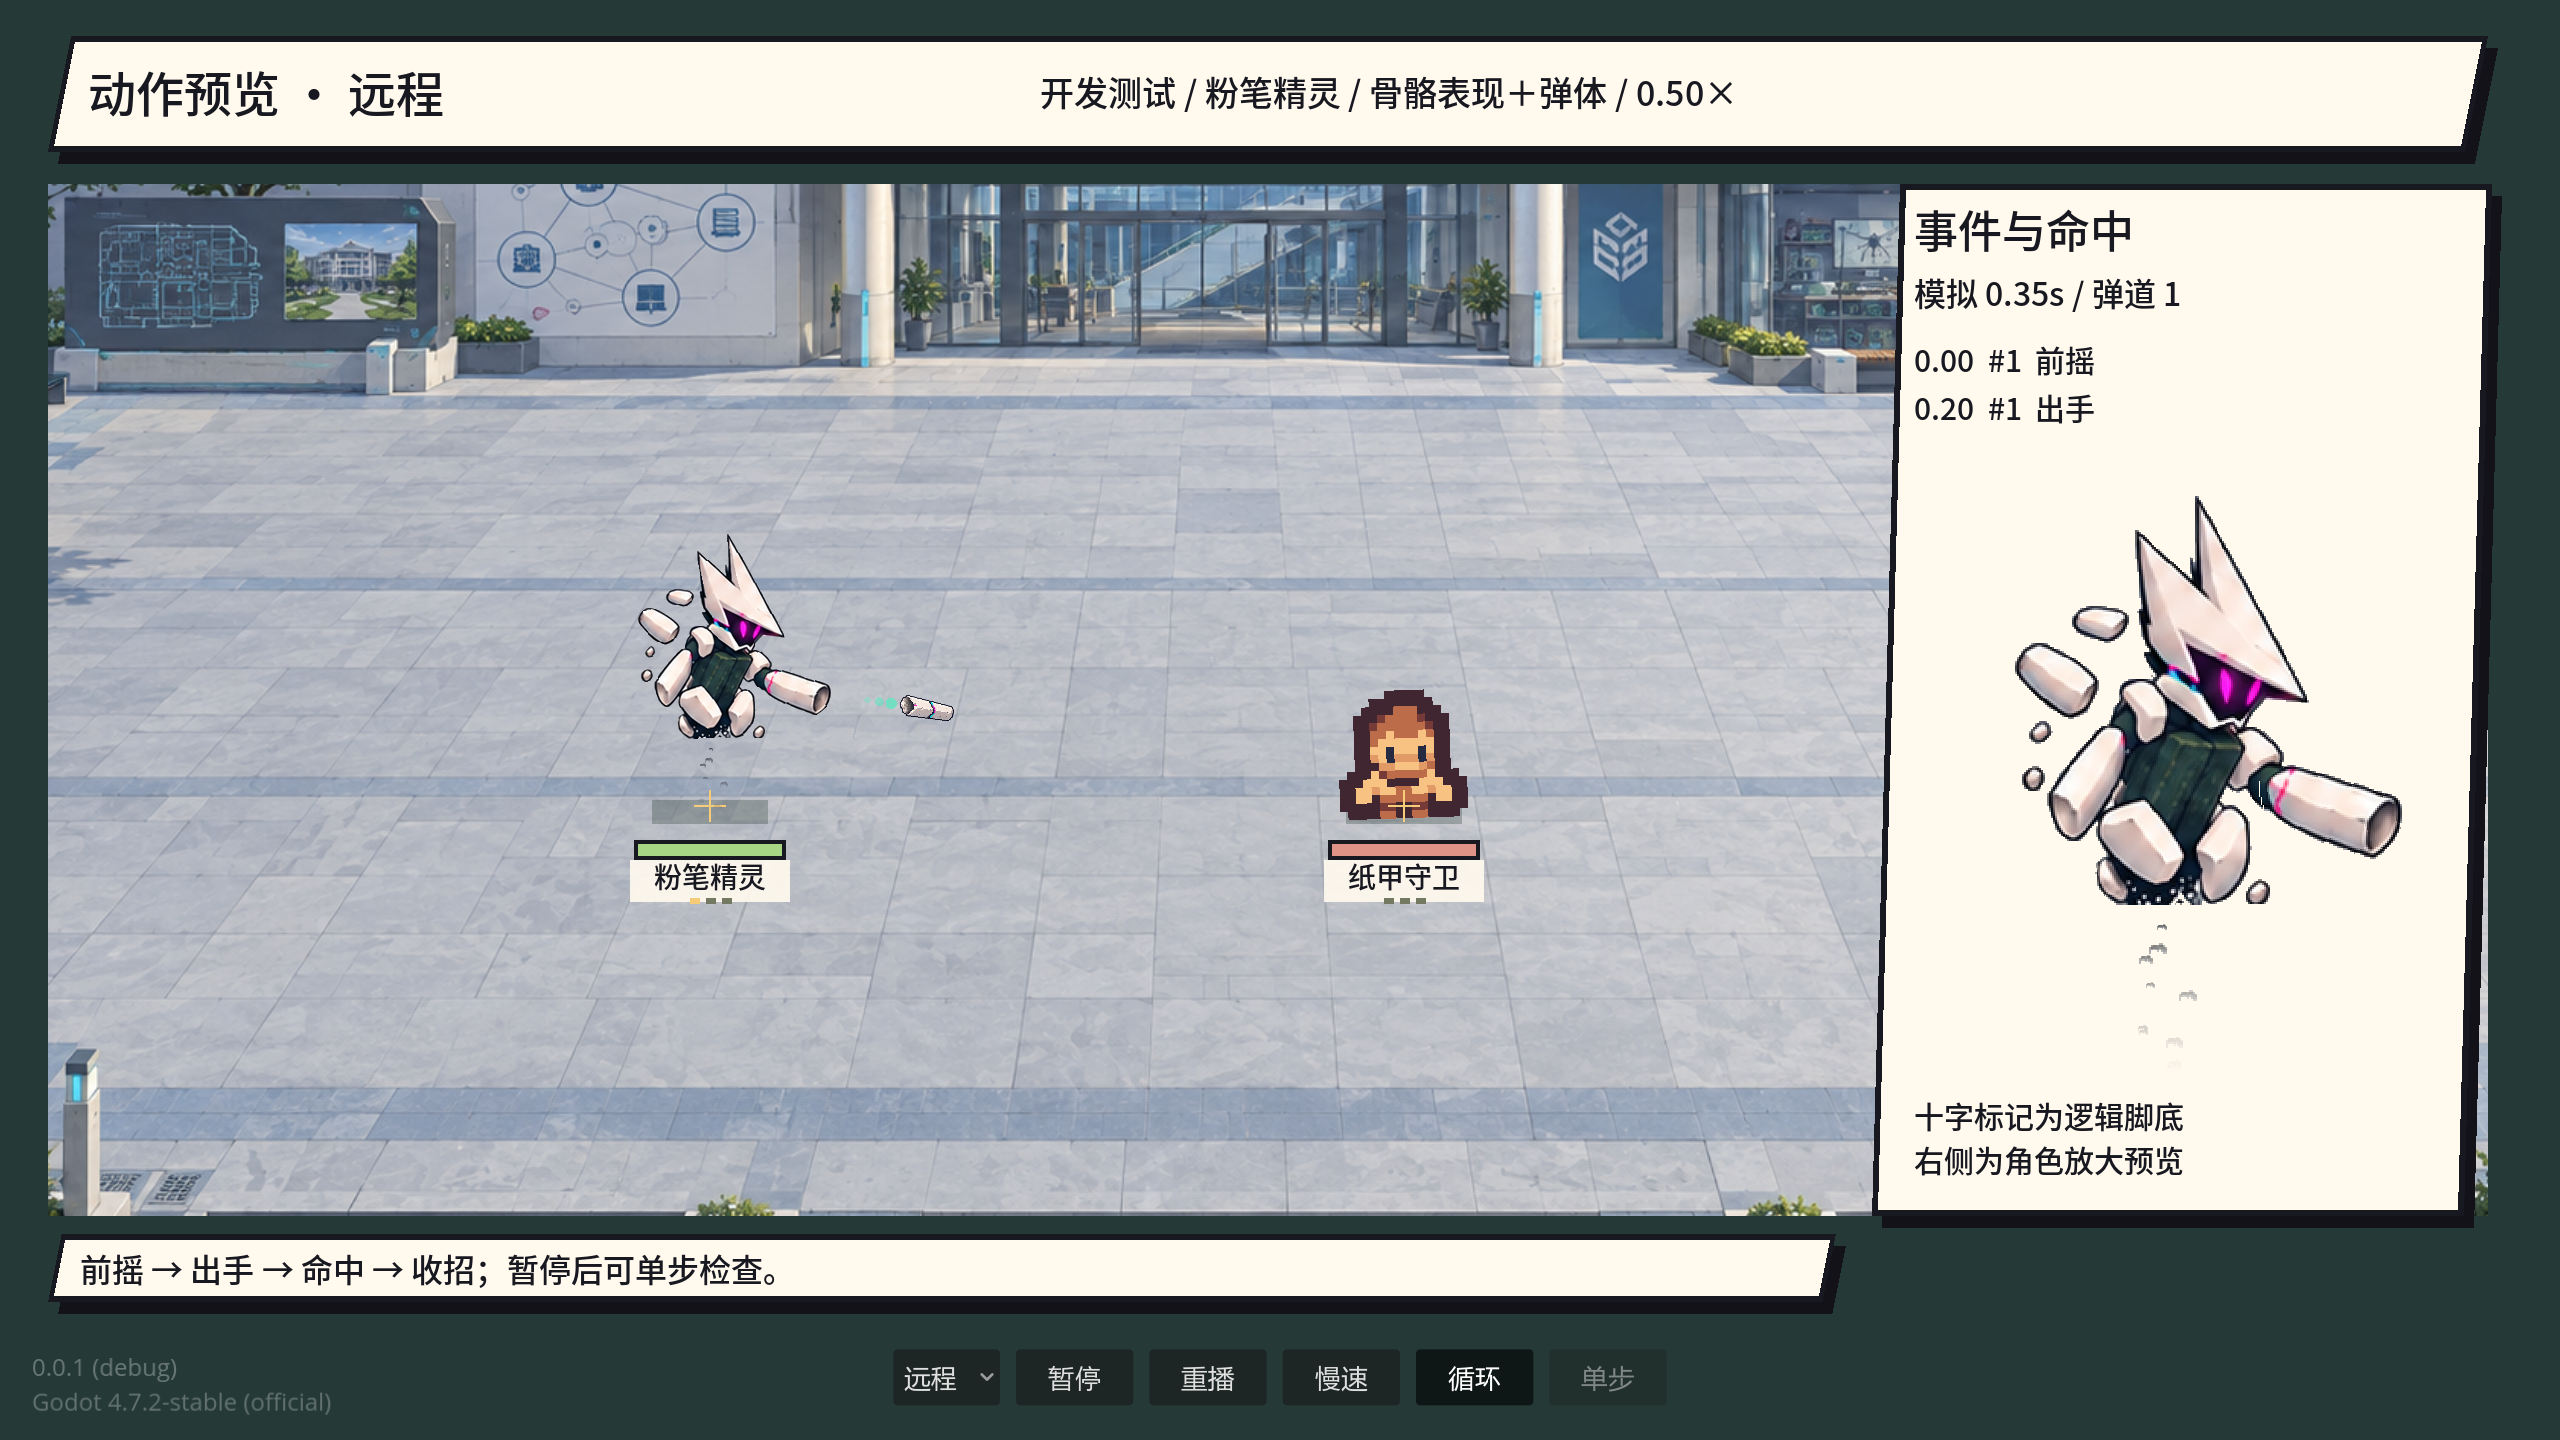
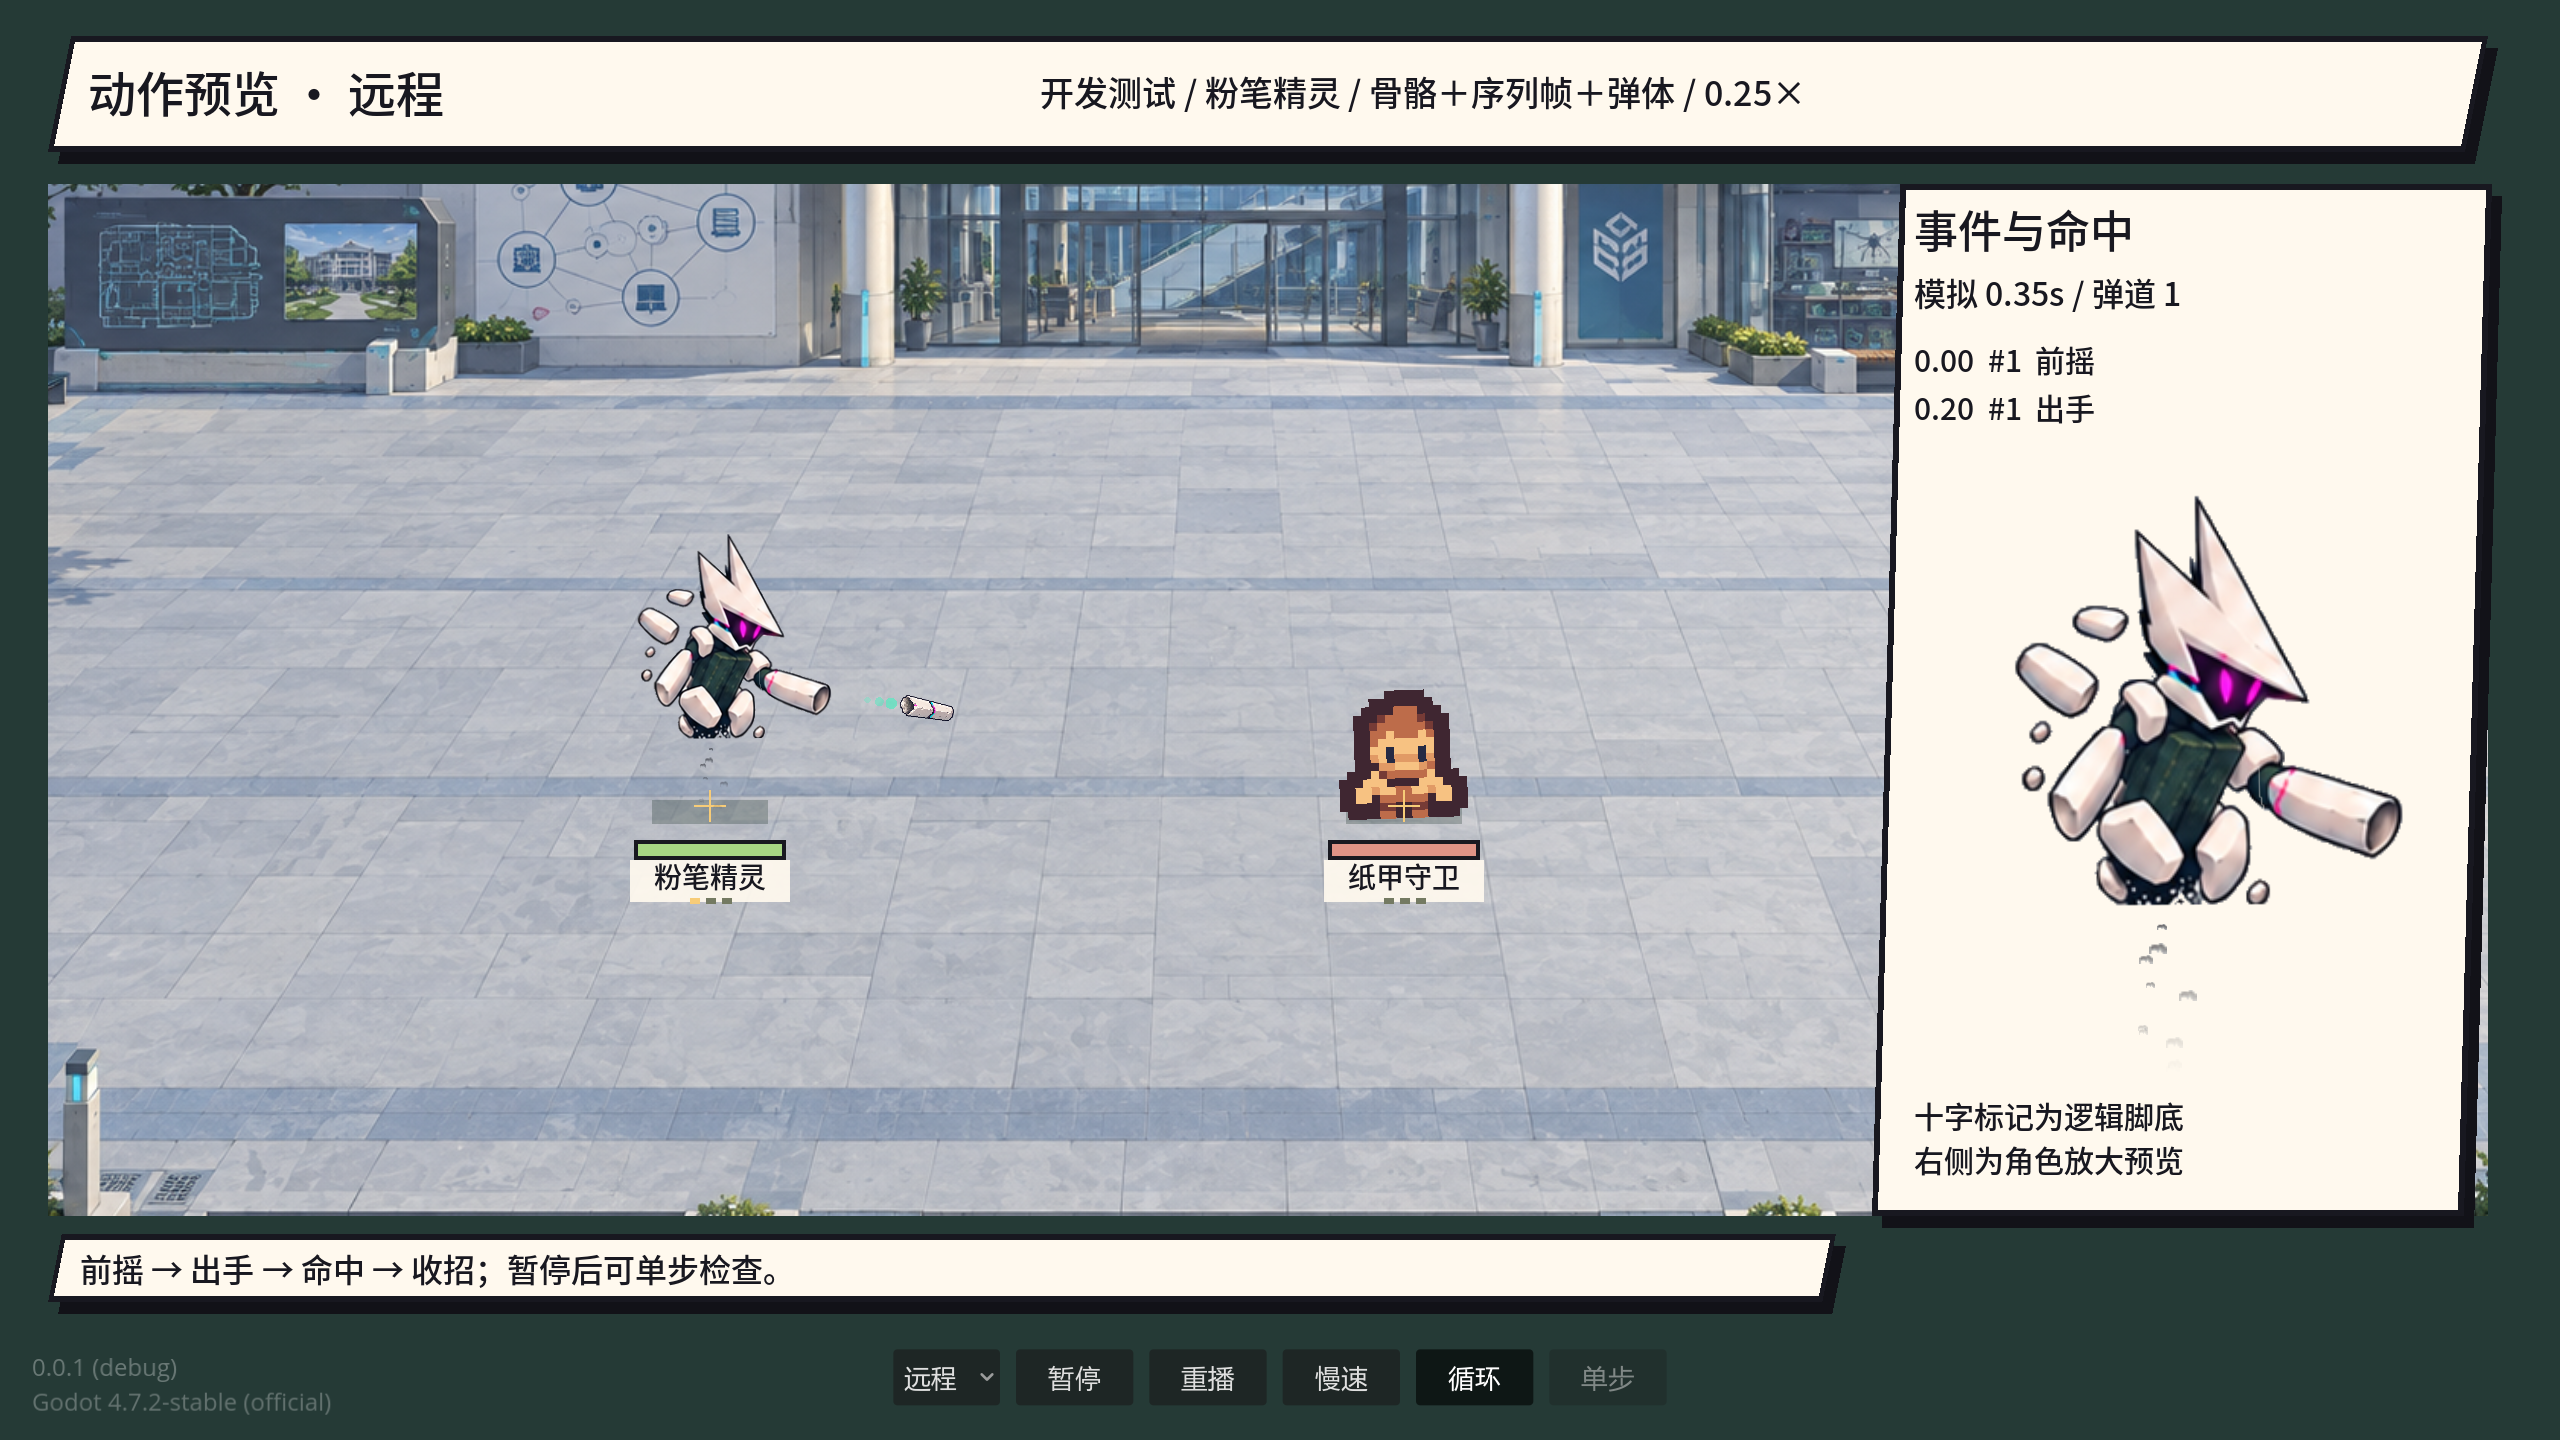
fix(art): stabilize cutout rig sampling

diff --git a/docs/art/tasks/chalk-spirit-rig.md b/docs/art/tasks/chalk-spirit-rig.md
@@ -15,6 +15,7 @@
 - 候选 002：[生成与验证记录](../../../design/concepts/chalk-spirit/chalk-rig/002/generation.md)。远程强化前摇、快速出手、枪口光和后坐；新增移动、施法、受击与濒危骨骼动作，死亡明确保留正式 005 序列帧。
 - 候选 002 评审：需修改。负责人于 2026-09-15 指出远程出手把主体推向前方，方向应为向后后坐；施法单色圆球表现粗糙。
 - 候选 003：[生成与验证记录](../../../design/concepts/chalk-spirit/chalk-rig/003/generation.md)。远程改为前倾架枪、主体向左后坐、抬枪与浮游石惯性；施法改为青紫双环法阵、菱形核心、光晕与八颗旋转粉尘。
+- 候选 003 运行反馈：负责人于 2026-09-15 在游戏内统一预览中发现骨骼拆件边缘呈水波纹，并报告叶骨骼无法自动计算长度和角度的警告。确认原因为骨骼场景继承像素战斗场景的最近邻采样，以及刚性枢轴误用 `Bone2D` 默认自动骨长计算；现改为线性 mipmap 采样，并为四根枢轴骨显式关闭自动计算。
 - 当前结论：技术验证通过，待人工视觉评审；不视为正式接入批准。
 - 批准边界：当前仅可作为生产方式参考和评审原型；负责人批准前不得绑定角色定义、替换 `resources/content/animations/chalk.tres` 或更新 Manifest 为正式资产。
 
@@ -28,7 +29,7 @@
 - 候选 003 自检：七动作可用，出手时主体后坐方向与弹体方向相反，双环法阵及八颗施法粉尘存在，死亡继续读取正式 005，`failures=0`。
 - 候选 003 动画：[远程攻击 GIF](../../../design/concepts/chalk-spirit/chalk-rig/003/review/rig-preview.gif)、[七动作巡演 GIF](../../../design/concepts/chalk-spirit/chalk-rig/003/review/rig-all-actions.gif)、[攻击四阶段](../../../design/concepts/chalk-spirit/chalk-rig/003/review/rig-attack-contact-sheet.png)和[七动作总览](../../../design/concepts/chalk-spirit/chalk-rig/003/review/rig-all-actions-contact-sheet.png)。出手阶段完成三分辨率捕获。
 - 候选 003 已适配统一动作预览器：骨骼表现与正式序列帧共用战斗模拟时钟并按动作选择后端，六个骨骼动作与正式 005 退场序列帧可在同一角色中并存；支持动作指定、任意倍率、暂停、单步、循环和巡演。远程弹体由标准模拟器绘制，骨骼层只保留枪口光与后坐，避免双重弹体和时序漂移。接入仍仅用于评审，不改变正式资源绑定。
-- 统一预览证据：[远程 1920×1080](../../../design/concepts/chalk-spirit/chalk-rig/003/review/standard-preview-ranged-1920x1080.png)、[远程 2560×1440](../../../design/concepts/chalk-spirit/chalk-rig/003/review/standard-preview-ranged-2560x1440.png)、[远程 1920×1200](../../../design/concepts/chalk-spirit/chalk-rig/003/review/standard-preview-ranged-1920x1200.png)与[正式 005 退场回退](../../../design/concepts/chalk-spirit/chalk-rig/003/review/standard-preview-death-1920x1080.png)。命令使用 `-Action` 与 `-Speed 0.5`，由 Godot 标准预览场景实际捕获。
+- 统一预览证据：[远程 1920×1080](../../../design/concepts/chalk-spirit/chalk-rig/003/review/standard-preview-ranged-1920x1080.png)、[远程 2560×1440](../../../design/concepts/chalk-spirit/chalk-rig/003/review/standard-preview-ranged-2560x1440.png)、[远程 1920×1200](../../../design/concepts/chalk-spirit/chalk-rig/003/review/standard-preview-ranged-1920x1200.png)与[正式 005 退场回退](../../../design/concepts/chalk-spirit/chalk-rig/003/review/standard-preview-death-1920x1080.png)。水波纹修复后使用 `-Action` 与 `-Speed 0.25` 重新捕获；骨骼属性和纹理过滤回归检查为 `failures=0`，终端不再出现 `Bone2D` 自动计算警告。
 
 ## 制作建议
 
